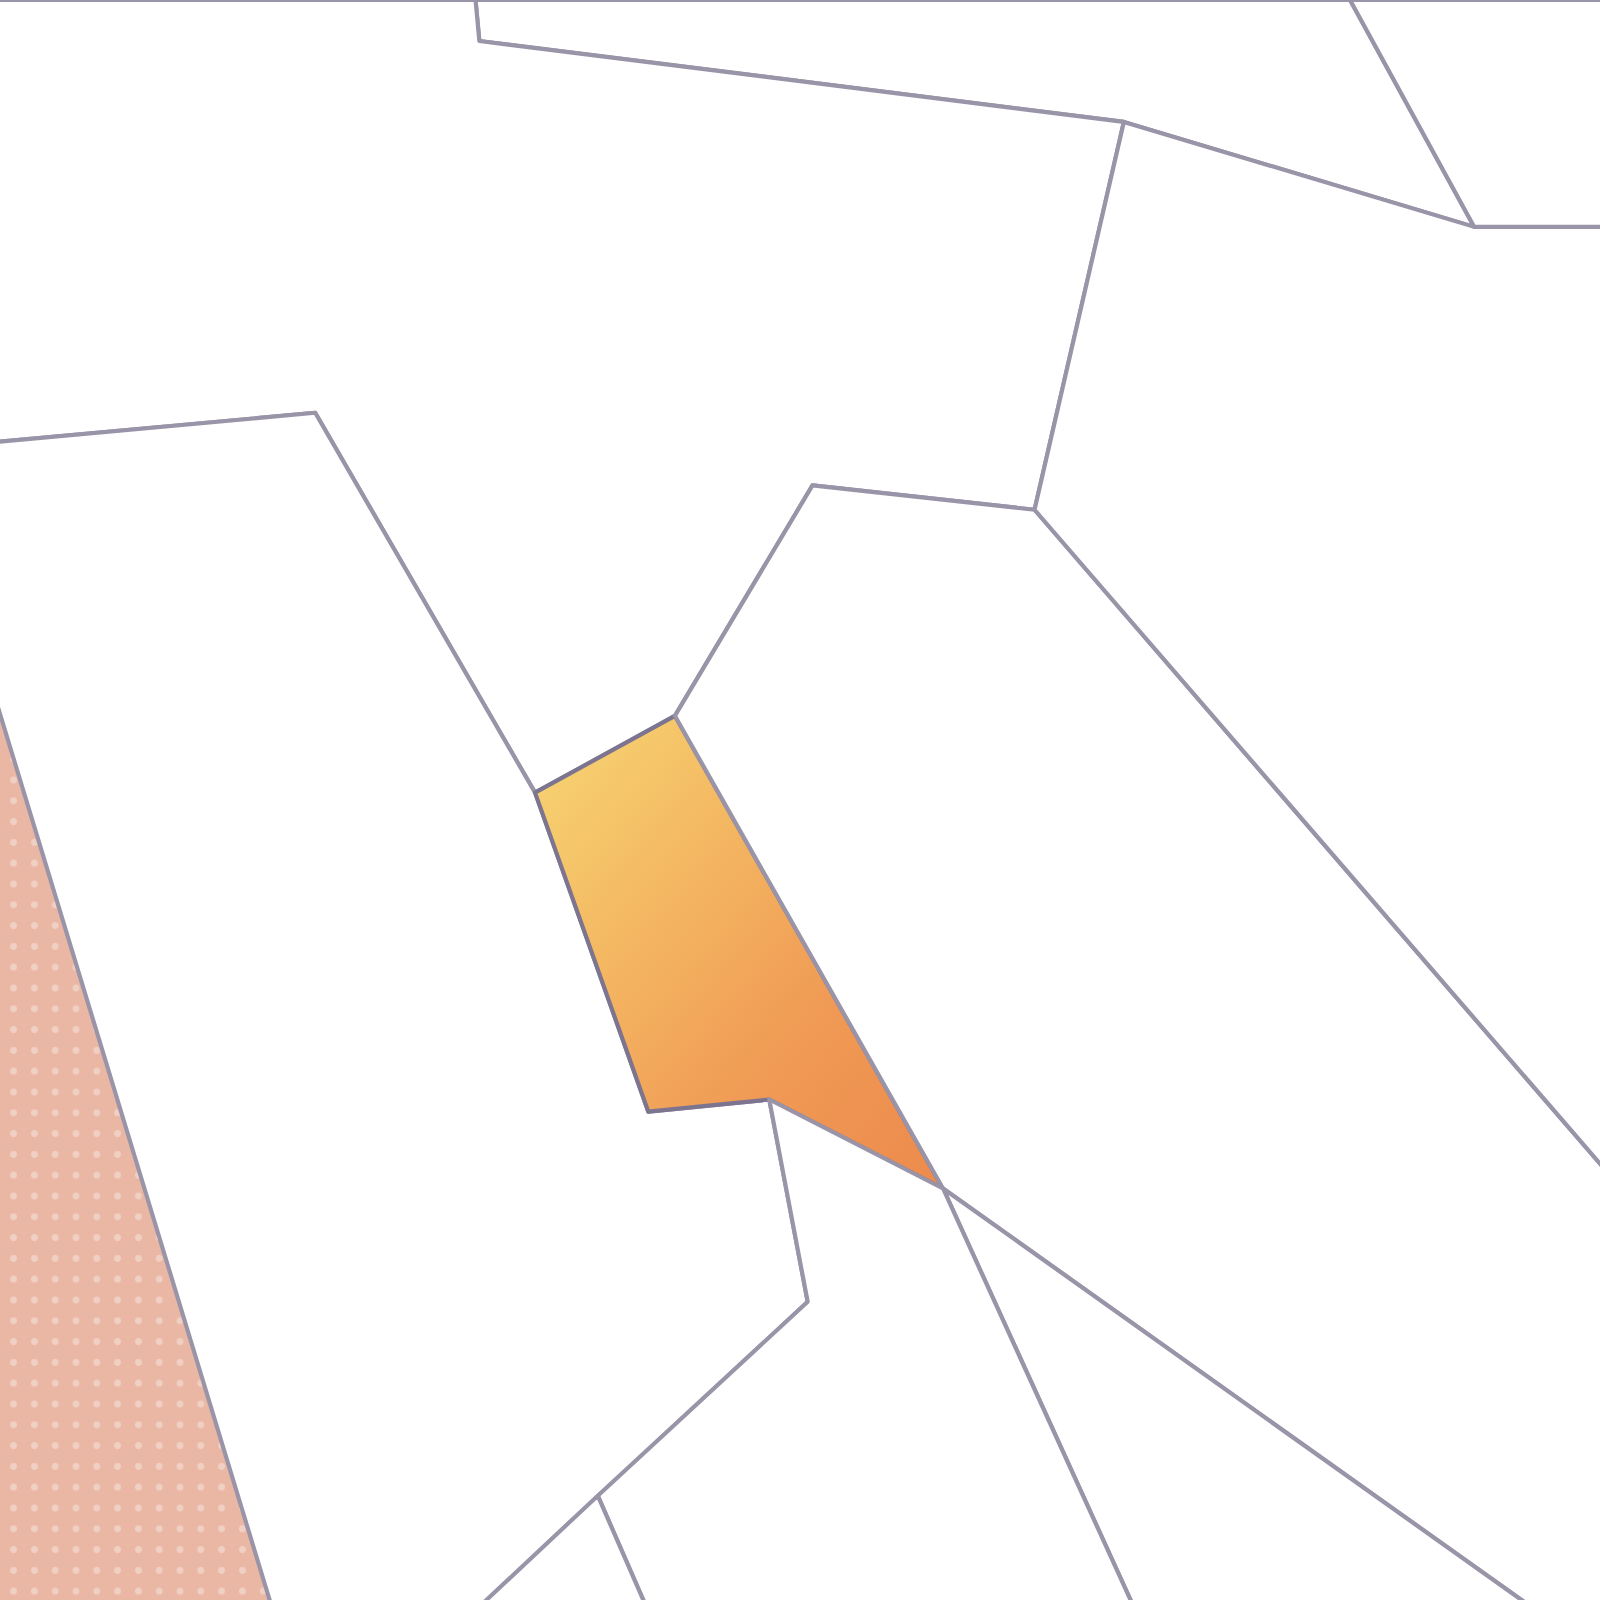
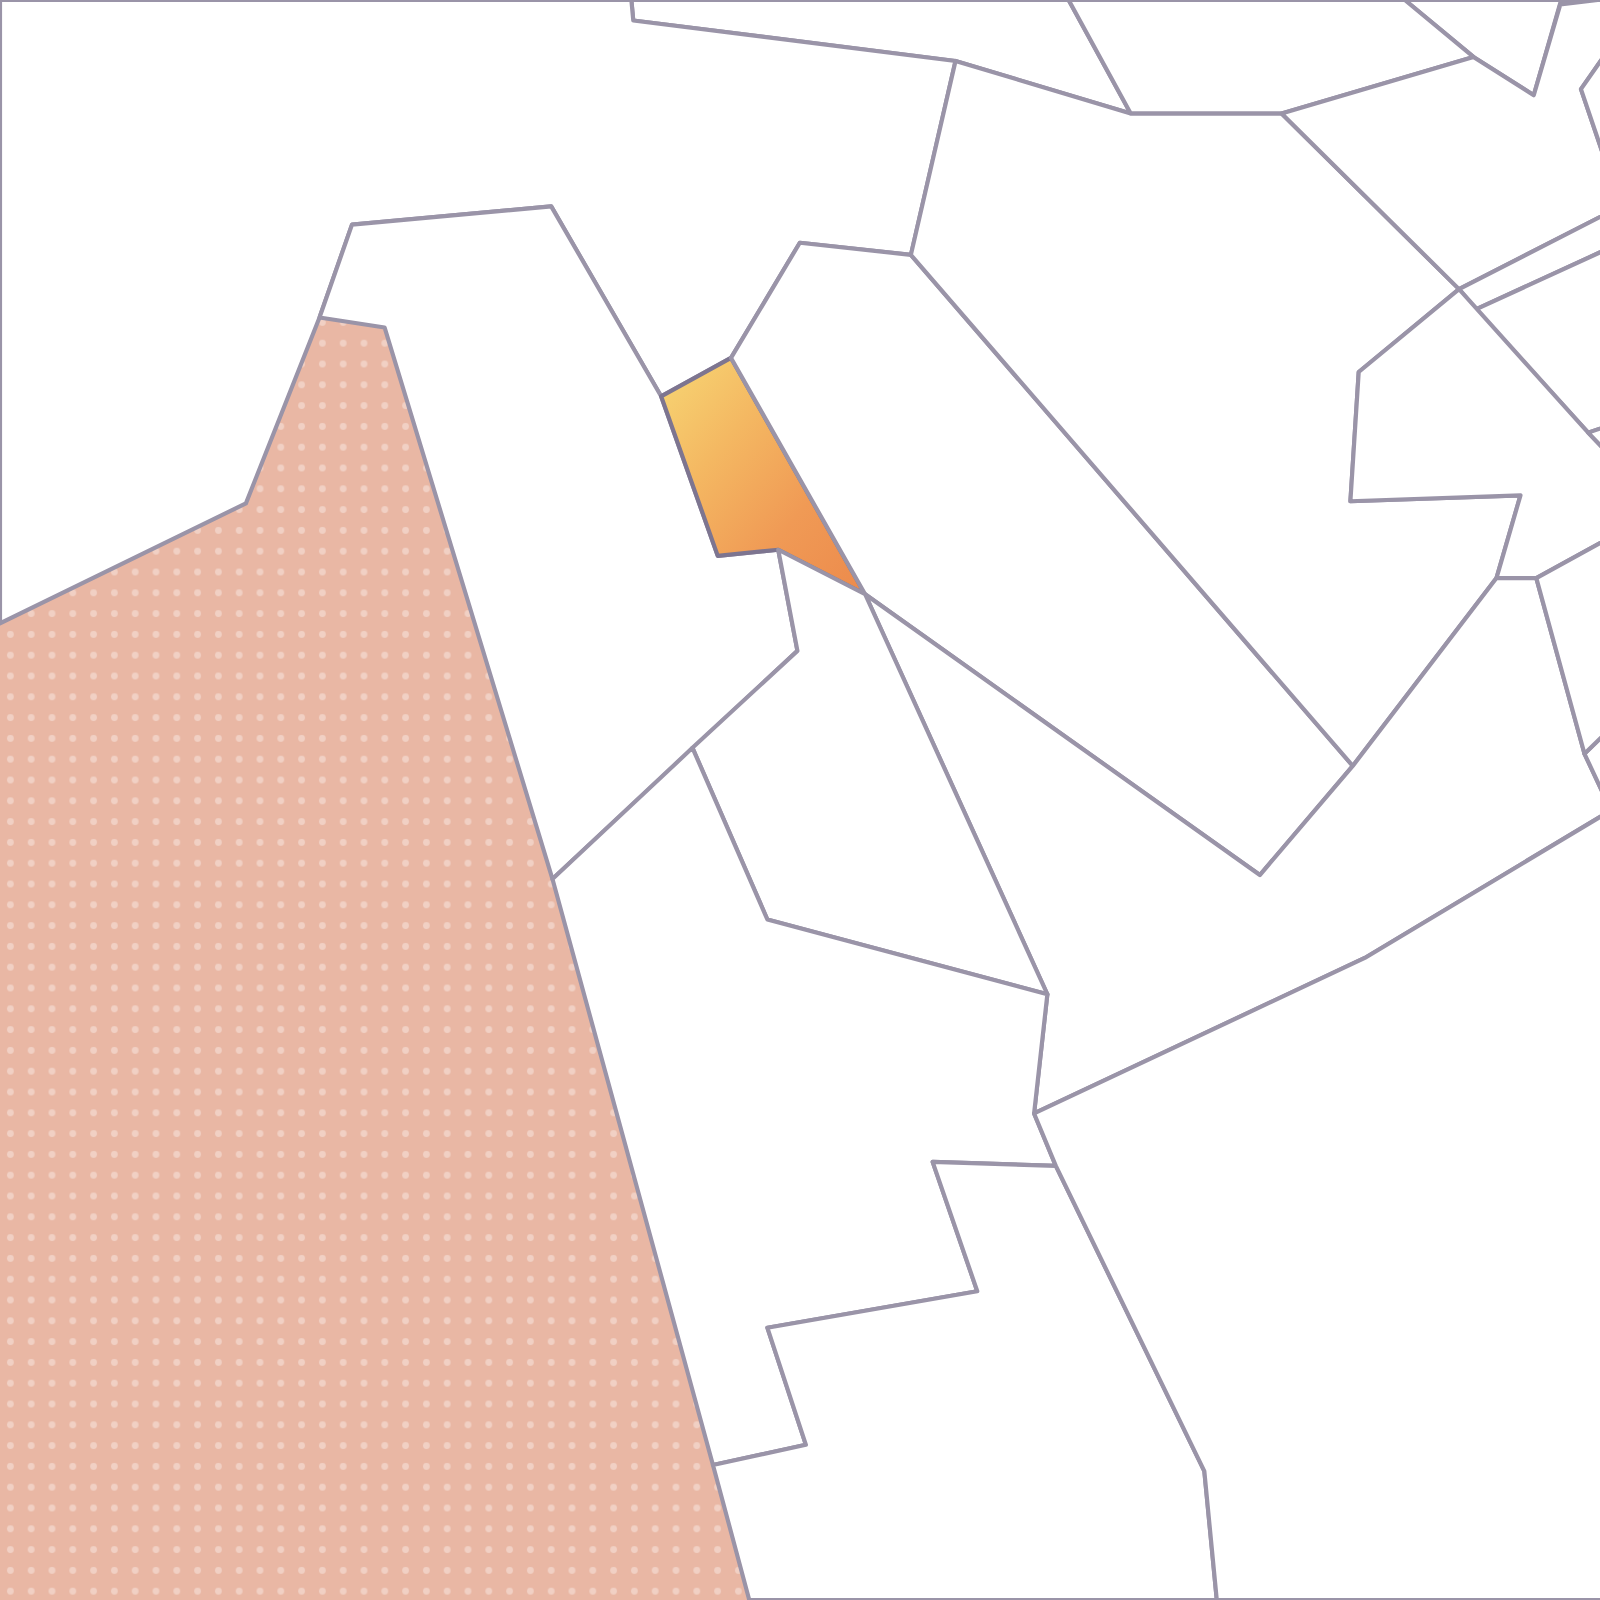
Projects: Colombo map zoomed out to the full extent of the data
Claude-Session: https://claude.ai/code/session_01M59whcELfLsnsUGQLMNNbi

diff --git a/projects.html b/projects.html
@@ -121,7 +121,7 @@ html.dark .rcard .tag,html.dark .rcard p{color:#a1a1a6}
 </div>
 <div style="min-width: 0">
 <h2 class="p-h2 p-h2-col" style="margin: 0; font-size: 40px; line-height: 1.1; font-weight: 600; letter-spacing: -0.015em; color: #1d1d1f">Slave Island, Colombo</h2>
-<div class="rmap" style="position: relative"><img class="p-fig" src="img/projects/colombo-map.png?v=4" alt="Map of Colombo with Slave Island highlighted" style="margin-top: 32px; width: 100%; aspect-ratio: 1 / 1; object-fit: cover; object-position: center center; border: 2px solid #d8957e; box-sizing: border-box; border-radius: 28px; display: block"><button type="button" class="rpin" data-region="cmb" aria-label="Slave Island: show project" style="left: 50.0%; top: 61.32%"><span class="pt"><i></i><b>Slave Island</b></span></button></div>
+<div class="rmap" style="position: relative"><img class="p-fig" src="img/projects/colombo-map.png?v=5" alt="Map of Colombo with Slave Island highlighted" style="margin-top: 32px; width: 100%; aspect-ratio: 1 / 1; object-fit: cover; object-position: center center; border: 2px solid #d8957e; box-sizing: border-box; border-radius: 28px; display: block"><button type="button" class="rpin" data-region="cmb" aria-label="Slave Island: show project" style="left: 49.6%; top: 30.66%"><span class="pt"><i></i><b>Slave Island</b></span></button></div>
 <p style="margin: 24px 20px 0; font-size: 17px; line-height: 1.5; color: #6e6e73">Hover over a pin to see its projects.</p>
 </div>
 </div>
